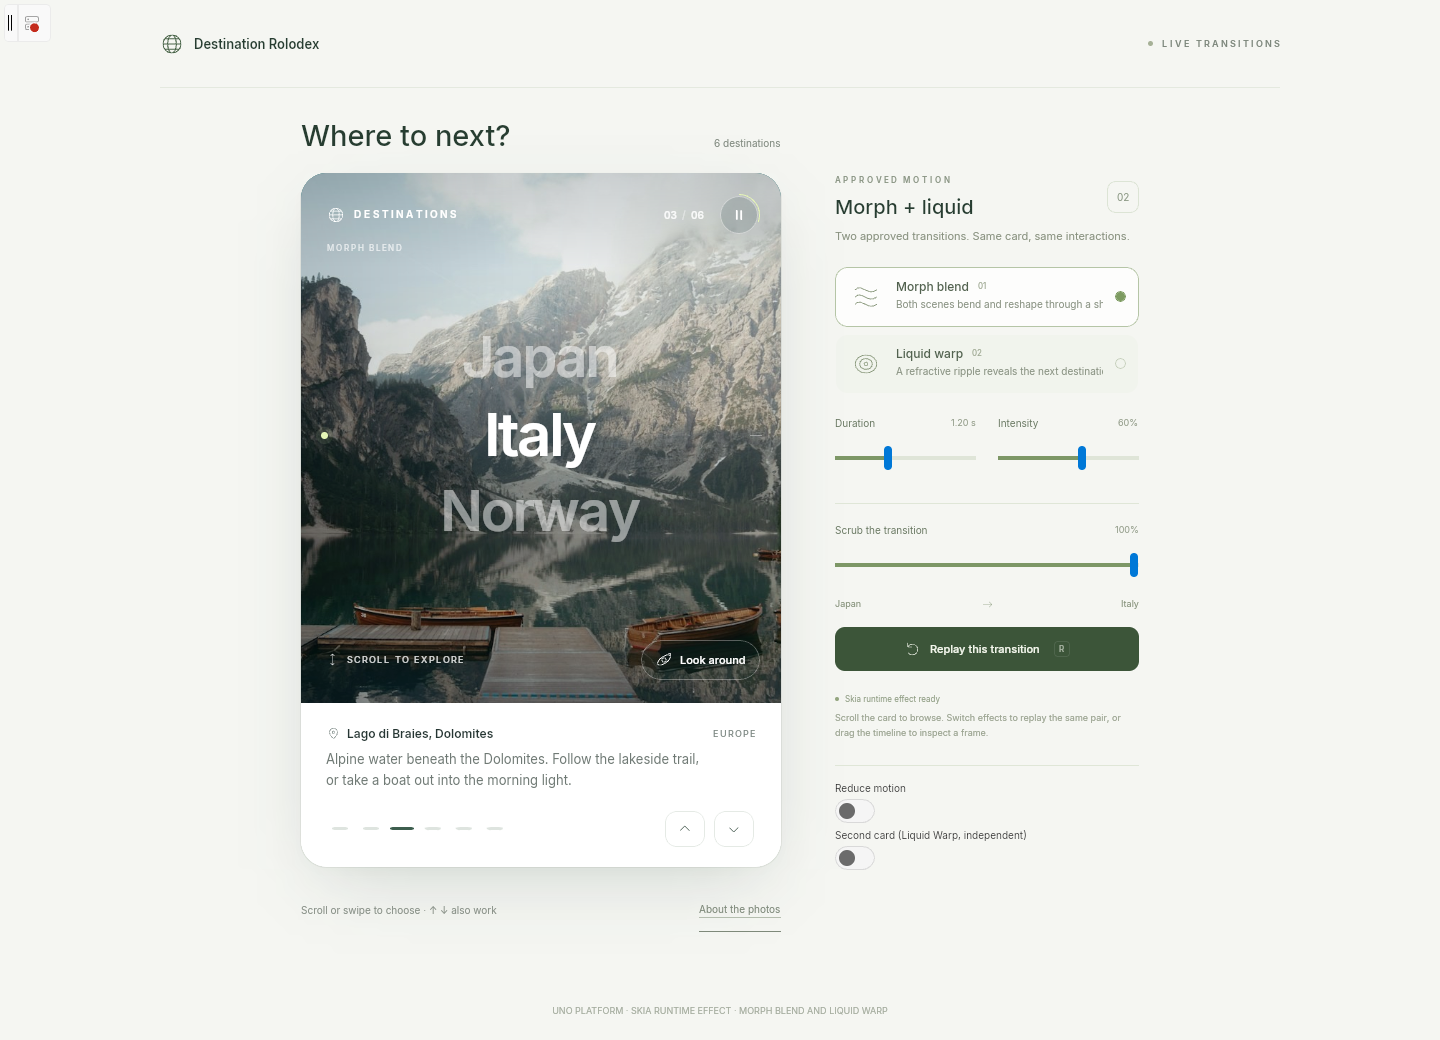
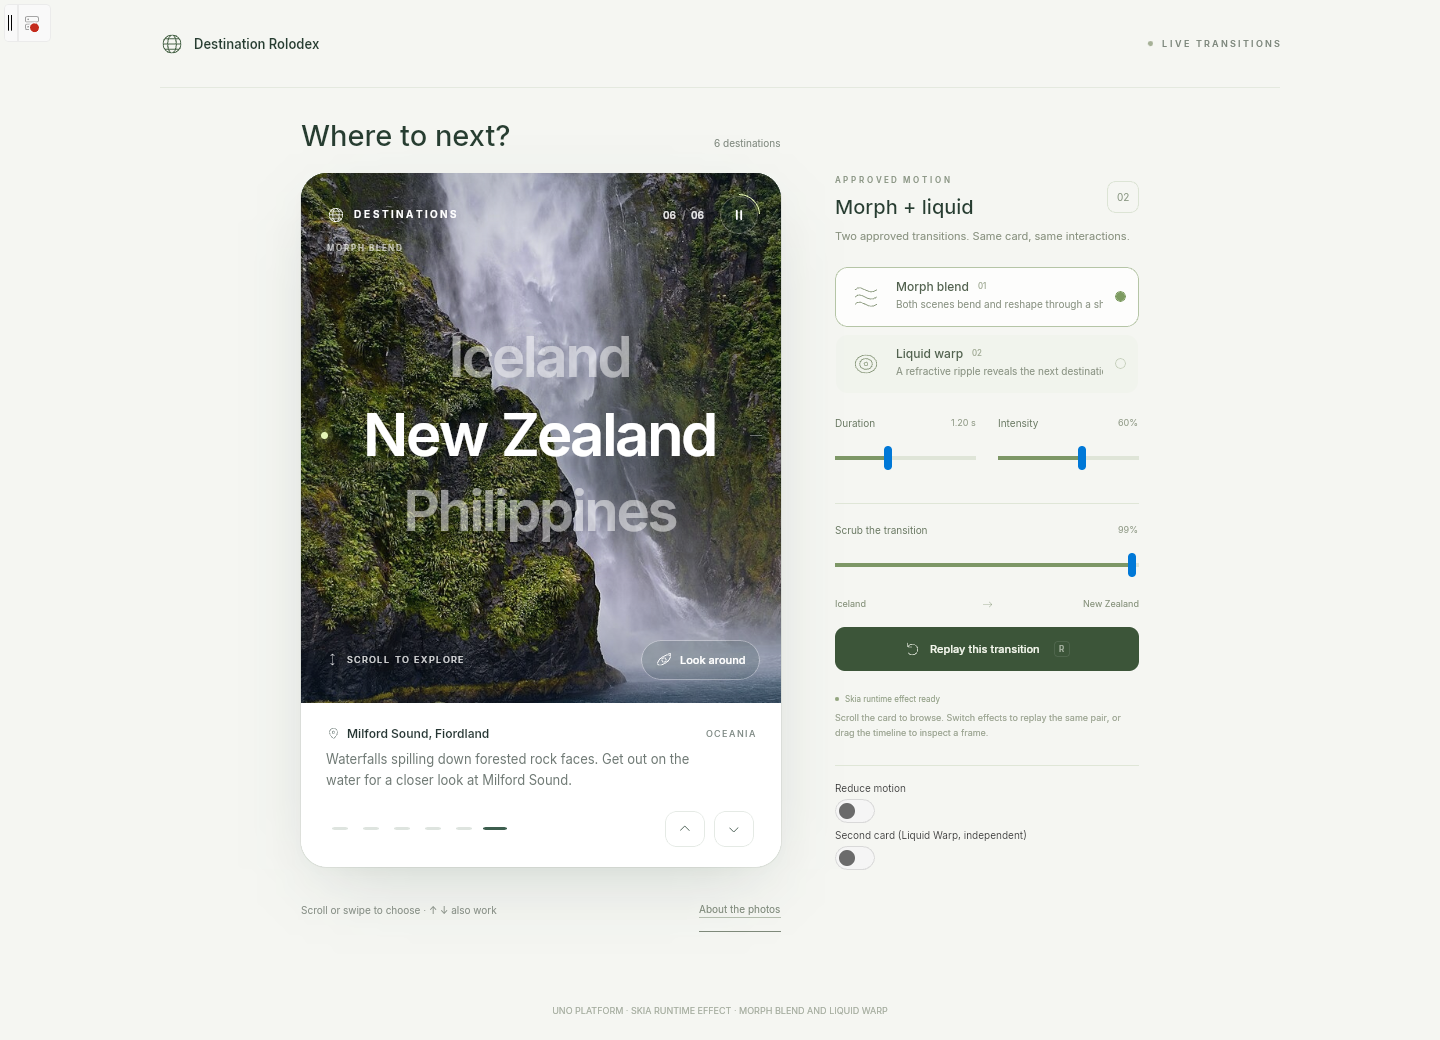
docs: wasm runtime evidence, handoff, lint counts, smoke script fixes

Changed region(s): [[0.1875, 0.1538, 0.5625, 0.7692]]

diff --git a/DestinationRolodex/HANDOFF.md b/DestinationRolodex/HANDOFF.md
@@ -1,19 +1,21 @@
 # HANDOFF — Destination Rolodex Uno build
-Updated: 2026-10-07 16:05
+Updated: 2026-10-07 16:50
 
 ## Where we are
 The handoff kit (briefs 01–09, approved HTML) is rebuilt as an Uno Platform app in `DestinationRolodex/`: reusable
 `DestinationRolodexCard` (looping picker, SkSL Morph Blend / Liquid Warp on `SKCanvasElement`, parallax, Look around,
 tour, loading/failure/retry, reduced motion), MVVM demo page with the motion lab and a second independent card, DEBUG
-harness, fixture export, browser parity script, unit tests (39 green). Desktop head verified through harness captures;
-Android builds clean but the user dropped Android runtime for now; WebAssembly head not yet built. The user recorded the
-desktop app at the end of the session.
+harness, fixture export, browser parity script, WebAssembly smoke, unit tests (39 green). Desktop and WebAssembly runtime
+verified; Android builds but its runtime is parked at the user's request. `docs/COMPLETENESS.md`: Complete with gaps.
 
 ## Last verified state
-- Build: `net10.0-desktop` Debug 0 warnings (Uno0001 as error); `net10.0-android` Debug 0 warnings; `net10.0-browserwasm` not built.
-- Runtime: desktop via DEBUG harness captures (`docs/evidence/captures`, `fixtures`, `browser-reference`, `recordings`); App MCP not used (session not rooted in the solution). Last capture matrix was interrupted after the rebuild that fixed the lab layout stretch and the slider feedback loop; re-run `bash tools/capture-matrix.sh` to refresh `desktop-*.png` (the pre-fix ones show a 420 px card and an unintended replay).
-- Git: master, last commit "fix: queue ordering, user-driven lab sliders, layout stretch, harness window sizing; add evidence and docs"; working tree clean.
-- Lint: xaml-semantic-lint reported HEX/CARD/CODEBEHIND/RESPONSIVE/ICON hits, all with `xaml-lint: allow` reasons at file top (tokens over photography, control implementation, container queries); full count not re-run.
+- Build: `net10.0-desktop` 0 warnings (Uno0001 as error); `net10.0-android` 0 warnings; `net10.0-browserwasm` 0 warnings (Debug).
+- Runtime: desktop via harness captures (`docs/evidence/captures`, all 16 states + perf + 1,000 steps), fixtures and browser
+  parity (`fixtures`, `browser-reference`, `recordings`); WebAssembly in headless Chromium (`docs/evidence/wasm`, desktop
+  viewport proven, 390×844 still loading at the smoke's wait). App MCP not used (session not rooted in the solution).
+- Git: master, last commit "feat: wasm head builds and runs; lint cleanup on demo page; viewport re-check in frame loop; completeness report".
+- Lint (xaml-semantic-lint, re-run after cleanup): CARD 8 · HEX 96 · CODEBEHIND 43 · RESPONSIVE 5 · TOKENTHEME 0 · ICON 0; every remaining hit sits under a `xaml-lint: allow` file header (design tokens over photography, custom-control implementation, container-width queries).
+- Note: the user's own desktop instance was left running at the end; the last desktop build went to `bin-verify/` (gitignored) so `bin/` stayed untouched. Rebuild `bin/` normally next session.
 
 ## Guidance applied
 | Skill / rule / decision | Applied at |
@@ -22,25 +24,30 @@ desktop app at the end of the session.
 | skiasharp-uno: `IsSupportedOnCurrentPlatform()` before construction + fallback | `Controls/DestinationRolodexCard.xaml.cs` `EnsureSurface` |
 | uno-runtime-gotchas: `CharacterSpacing` no-op → per-glyph layout | `Controls/GlyphLayout.cs` |
 | uno-runtime-gotchas: centered Grid collapses star columns → Stretch + MaxWidth | `MainPage.xaml` `LabLayout` |
+| uno-runtime-gotchas: `RenderTargetBitmap` is Uno0001 on WASM → `#if !__WASM__` | `Harness/CaptureHelper.cs` |
 | uno-scaffolding: `{utu:Responsive}` for window breakpoints | `MainPage.xaml` (`DemoLayout`, `MotionLab`) |
 | briefs 03/05: JS rounding, positive modulo, latest-target policy | `Models/CircularMath.cs`, `Rendering/TransitionCoordinator.cs` |
-Read, not applied: uno-completeness-audit (report not written), uno-break-it, gold-standard-pass, uno-audit.
+| uno-completeness-audit | `docs/COMPLETENESS.md` |
+Read, not applied: uno-break-it, gold-standard-pass, uno-audit.
 
 ## Next actions (in order)
-1. `bash tools/capture-matrix.sh` from `DestinationRolodex/`, then check `captures/desktop-rest.png` shows a 480 px card and no replay; refresh `docs/evidence/ACCEPTANCE.md` references.
-2. `dotnet build -f net10.0-browserwasm` and run it; record runtime-effect support on the browser Skia backend in ACCEPTANCE.md A27.
-3. Open a rooted session (`~/.claude/scripts/Open-RootedSession.ps1 -Path DestinationRolodex`) and run `uno-verify` for live pointer/keyboard evidence (A07, A08, A23), then `uno-completeness-audit` → `docs/COMPLETENESS.md`.
-4. Decide the SPEC.md substitutions (row blur, text shadow, mask fold, kerning loss) and the Norway/Iceland source-page verification.
+1. Rooted session (`~/.claude/scripts/Open-RootedSession.ps1 -Path DestinationRolodex`) → `uno-verify` with the App MCP for live wheel/drag/keyboard evidence (A07, A08, A23); promote those rows to R in `docs/evidence/ACCEPTANCE.md` and `docs/COMPLETENESS.md`.
+2. `python -I tools/wasm_smoke.py` after a Release wasm build for the 390×844 capture; drive Look around and a media failure in the browser.
+3. Decide the SPEC.md substitutions (row blur, text shadow, mask fold, kerning) and verify the Norway/Iceland source pages.
+4. Optional: `uno-break-it`, `gold-standard-pass`, `uno-audit` passes at feature-complete.
 
 ## Open questions
 - Android runtime dropped by the user for now; head still compiles.
 - WinAppSDK / iOS / macOS heads not scaffolded (SPEC.md).
 - Release-configuration performance not measured.
+- Harness captures use `RenderTargetBitmap`; the first desktop capture after a window resize can still race the resize (the card now re-checks `XamlRoot.Size` from its loop).
 
 ## Relaunch
 ```powershell
 cd C:\Users\Platform006\UnoProjects\destination-rolodex\DestinationRolodex
 dotnet build DestinationRolodex/DestinationRolodex.csproj -f net10.0-desktop -c Debug
 dotnet run --project DestinationRolodex/DestinationRolodex.csproj -f net10.0-desktop --no-build
+bash tools/capture-matrix.sh            # evidence refresh (does not kill other instances)
+python -I tools/browser_reference.py    # parity vs the approved HTML
 ```
 Plain exe launches need a harness switch (e.g. `--capture=...`) or the devserver, because `UseStudio()` runs in Debug.

diff --git a/DestinationRolodex/docs/COMPLETENESS.md b/DestinationRolodex/docs/COMPLETENESS.md
@@ -2,7 +2,8 @@
 
 Verdict: **Complete with gaps**
 Safe to show (desktop): browse by wheel/drag/keys/dots, both effects, replay and scrub, Look around, tour, reduced motion,
-loading/failure/retry, second card. Keep off screen: Android and WebAssembly runtime (not proven), high-DPI, screen readers.
+loading/failure/retry, second card. WebAssembly: browse/tour/effects proven at desktop width in headless Chromium. Keep off
+screen: Android runtime (parked), high-DPI, screen readers.
 
 Runtime proof in this audit comes from the DEBUG harness (deterministic start states + `RenderTargetBitmap` captures,
 JSON statistics, offscreen renders through the production renderer) and the unit tests, because the App MCP was not
@@ -38,7 +39,7 @@ Critical workflows:
 | 7 | Forms | N/A | — | 0 | 0 | 0 | No forms; the lab sliders are demo controls (bound two-way, `MainPage.xaml`) |
 | 8 | Authentication | N/A | — | 0 | 0 | 0 | No accounts by design (brief 01: out of scope) |
 | 9 | Responsive/adaptive UI | Complete | R | 0 | 0 | 0 | 1440×1040 and 390×844 captures; lab stacks below 721 px (`{utu:Responsive}`), card radius 23 narrow, scene height clamps |
-| 10 | Platform behavior | Partial | R (desktop) / X | 0 | 2 | 0 | Desktop proven; Android builds (0 warnings) but runtime parked by the user; WebAssembly: see `docs/evidence/wasm` once run |
+| 10 | Platform behavior | Partial | R (desktop, wasm) / X (android) | 0 | 1 | 0 | Desktop proven; WebAssembly renders the runtime effect in Chromium (`docs/evidence/wasm/wasm-desktop-1440x1040.png`); Android builds (0 warnings) but runtime parked by the user |
 | 11 | Failure handling | Complete | R | 0 | 0 | 0 | Decode failure → status + Retry (`--media-fail`), retry invalidates and reloads (`Retry()`); shader compile failure → PlainImage path (`desktop-noshader.png`); no-surface → XAML Image (C) |
 | 12 | Accessibility | Partial | C | 0 | 0 | 2 | Names on every control, single selection surface, polite announcer, 44 px hit regions (dots 28×44); no screen-reader or large-text run |
 | 13 | Performance | Complete | R (desktop) | 0 | 0 | 1 | Loop p50 15.6 ms / p95 16.9 ms with effects (`captures/perf.json`); cache bounded (6 entries, 31.8 MB); Release not profiled |
@@ -50,10 +51,10 @@ Critical workflows:
 
 | Workflow | desktop | android | wasm |
 |---|---|---|---|
-| 1. Browse | R (`--select`, `--steps=1000` → index 4, `desktop-liquid-050.png` rows + copy + photo) | X (parked by user) | X (not yet run) |
-| 2. Compare effects | R (`--mode=liquid --seek=0.5`, fixtures both modes/directions, parity report) | X | X |
+| 1. Browse | R (`--select`, `--steps=1000` → index 4, `desktop-liquid-050.png` rows + copy + photo) | X (parked by user) | R (tour advanced to Italy, `wasm-desktop-1440x1040.png`) |
+| 2. Compare effects | R (`--mode=liquid --seek=0.5`, fixtures both modes/directions, parity report) | X | C (effect compiled: status line in the wasm capture) |
 | 3. Look around | R (`desktop-look.png`, `mobile-look.png`; Escape path C) | X | X |
-| 4. Tour | R (`desktop-autoplay-mid.png` ring; pause-on-input C) | X | X |
+| 4. Tour | R (`desktop-autoplay-mid.png` ring; pause-on-input C) | X | R (`wasm-desktop-1440x1040.png`) |
 | 5. Media resilience | R (`desktop-loading.png`, `desktop-failed.png`; Retry C) | X | X |
 | 6. Two cards | R (`desktop-second.png`, `mobile-second.png`) | X | X |
 
@@ -64,7 +65,6 @@ Critical workflows:
 
 ### Majors
 - [Platform behavior] Android runtime not proven - head builds clean - evidence X - user parked Android for now - owner: uno-verify
-- [Platform behavior] WebAssembly runtime not proven at audit time - run `python -I tools/wasm_smoke.py` after `dotnet build -f net10.0-browserwasm` - owner: uno-wasm-pwa
 
 ### Minors
 - [Interactions] Real wheel/drag/keyboard input not driven - `DestinationRolodexCard.xaml.cs` input handlers - evidence C - logic covered by controller tests - owner: uno-verify (App MCP, rooted session)
@@ -76,7 +76,7 @@ Critical workflows:
 
 ## Not checked (X)
 - Android runtime - parked by the user - `dotnet build -f net10.0-android -t:Run` with the `chefs36` AVD.
-- WebAssembly runtime - build was pending at audit time - `tools/wasm_smoke.py`.
+- WebAssembly at 390×844 - Debug payload still on the splash after the smoke's wait - rerun `tools/wasm_smoke.py` with a longer wait or a Release build.
 - High-DPI (150 %/200 %) - captures at 100 % only - rerun the matrix on a scaled display.
 - Hidden-window behaviour (A19) - `XamlRoot.IsHostVisible` gating read in code - minimise the window during autoplay and check no advance.
 - Escape focus return, retry button activation, Play while focused - need pointer/keyboard injection - App MCP in a rooted session.
@@ -88,4 +88,4 @@ Critical workflows:
 ## Unresolved Questions
 - N/A rows: Navigation (single page), Forms (none), Authentication (out of scope) - confirm these stay out of the component.
 - Derived workflow 6 (two independent cards) is from the kickoff's acceptance text, not a brief - confirm it is a demo requirement.
-- Android (user-parked) and WebAssembly runtime remain X on supported heads.
+- Android runtime (user-parked) remains X; WebAssembly Look around / media failure / two cards not driven in the browser.

diff --git a/DestinationRolodex/docs/evidence/ACCEPTANCE.md b/DestinationRolodex/docs/evidence/ACCEPTANCE.md
@@ -10,8 +10,10 @@ Evidence folders: `fixtures/` (raw photo-layer frames from the real renderer, CP
 composites and `report.json` with mean |diff|), `captures/` (full-card captures through the DEBUG harness,
 `RenderTargetBitmap` of the page root, with per-run logs and JSON statistics).
 
-Only the desktop head was executed in this session. Android and WebAssembly compile status is recorded at the end; their
-runtime rows are **untested**. WinAppSDK and iOS/macOS were not scaffolded (SPEC.md).
+Desktop was executed through the harness; WebAssembly was executed in headless Chromium (`wasm/`, `tools/wasm_smoke.py`,
+Debug build served by dotnet-serve): the runtime effect compiles and renders on the browser Skia backend and the tour
+advances. Android builds (0 warnings) and its runtime is parked at the user's request. WinAppSDK and iOS/macOS were not
+scaffolded (SPEC.md).
 
 | ID | Test | Result | Evidence |
 | --- | --- | --- | --- |
@@ -41,7 +43,7 @@ runtime rows are **untested**. WinAppSDK and iOS/macOS were not scaffolded (SPEC
 | A24 | Offline assets | PASS | Six originals packaged under `Assets/Destinations` (ids ph, jp, it, no, is, nz; 1400×1050 / 1400×933 / 1280×853); loaded through `ms-appx`; no network path exists in the app. |
 | A25 | Multiple instances | PASS | `captures/desktop-second.png`: card 2 (Liquid Warp, index 3, paused) beside card 1 (Morph Blend, index 0, playing); every controller, cache, surface and renderer is per instance (no statics except the SkSL source). |
 | A26 | Resources/performance | PASS (desktop) | Effect compiled once per card; one short-lived `SKShader` per frame; decode on the thread pool; cache budget 96 MB with pinning and deferred disposal; 1,000 steps: 6 entries, 31.8 MB, working set 450 MB; `RenderOverride` p95 0.056 ms (command recording; GPU work is asynchronous); loop p95 17.3 ms. Release configuration not profiled. |
-| A27 | Platform evidence | PASS for desktop; others labelled | Desktop: Windows 11 Pro 10.0.26200, Win32 host, Skia/OpenGL, Debug. Android and WebAssembly: build status below, runtime untested. WinAppSDK, iOS, macOS: not built. |
+| A27 | Platform evidence | PASS for desktop and WebAssembly (1440×1040); others labelled | Desktop: Windows 11 Pro 10.0.26200, Win32 host, Skia/OpenGL, Debug. WebAssembly: Chromium headless (SwiftShader), Debug, `wasm/wasm-desktop-1440x1040.png`, no page errors (console shows only devserver websocket refusals). Android: builds, runtime parked. WinAppSDK, iOS, macOS: not built. |
 | A28 | Final parity proof | PASS | Fixed-progress captures for both modes and both directions (`fixtures/fixed/*`), browser side-by-sides (`browser-reference/compare-*.png`), playback frame sequences (`fixtures/frames/*`, 37 frames each) assembled into `recordings/*.mp4`. |
 
 ## Performance
